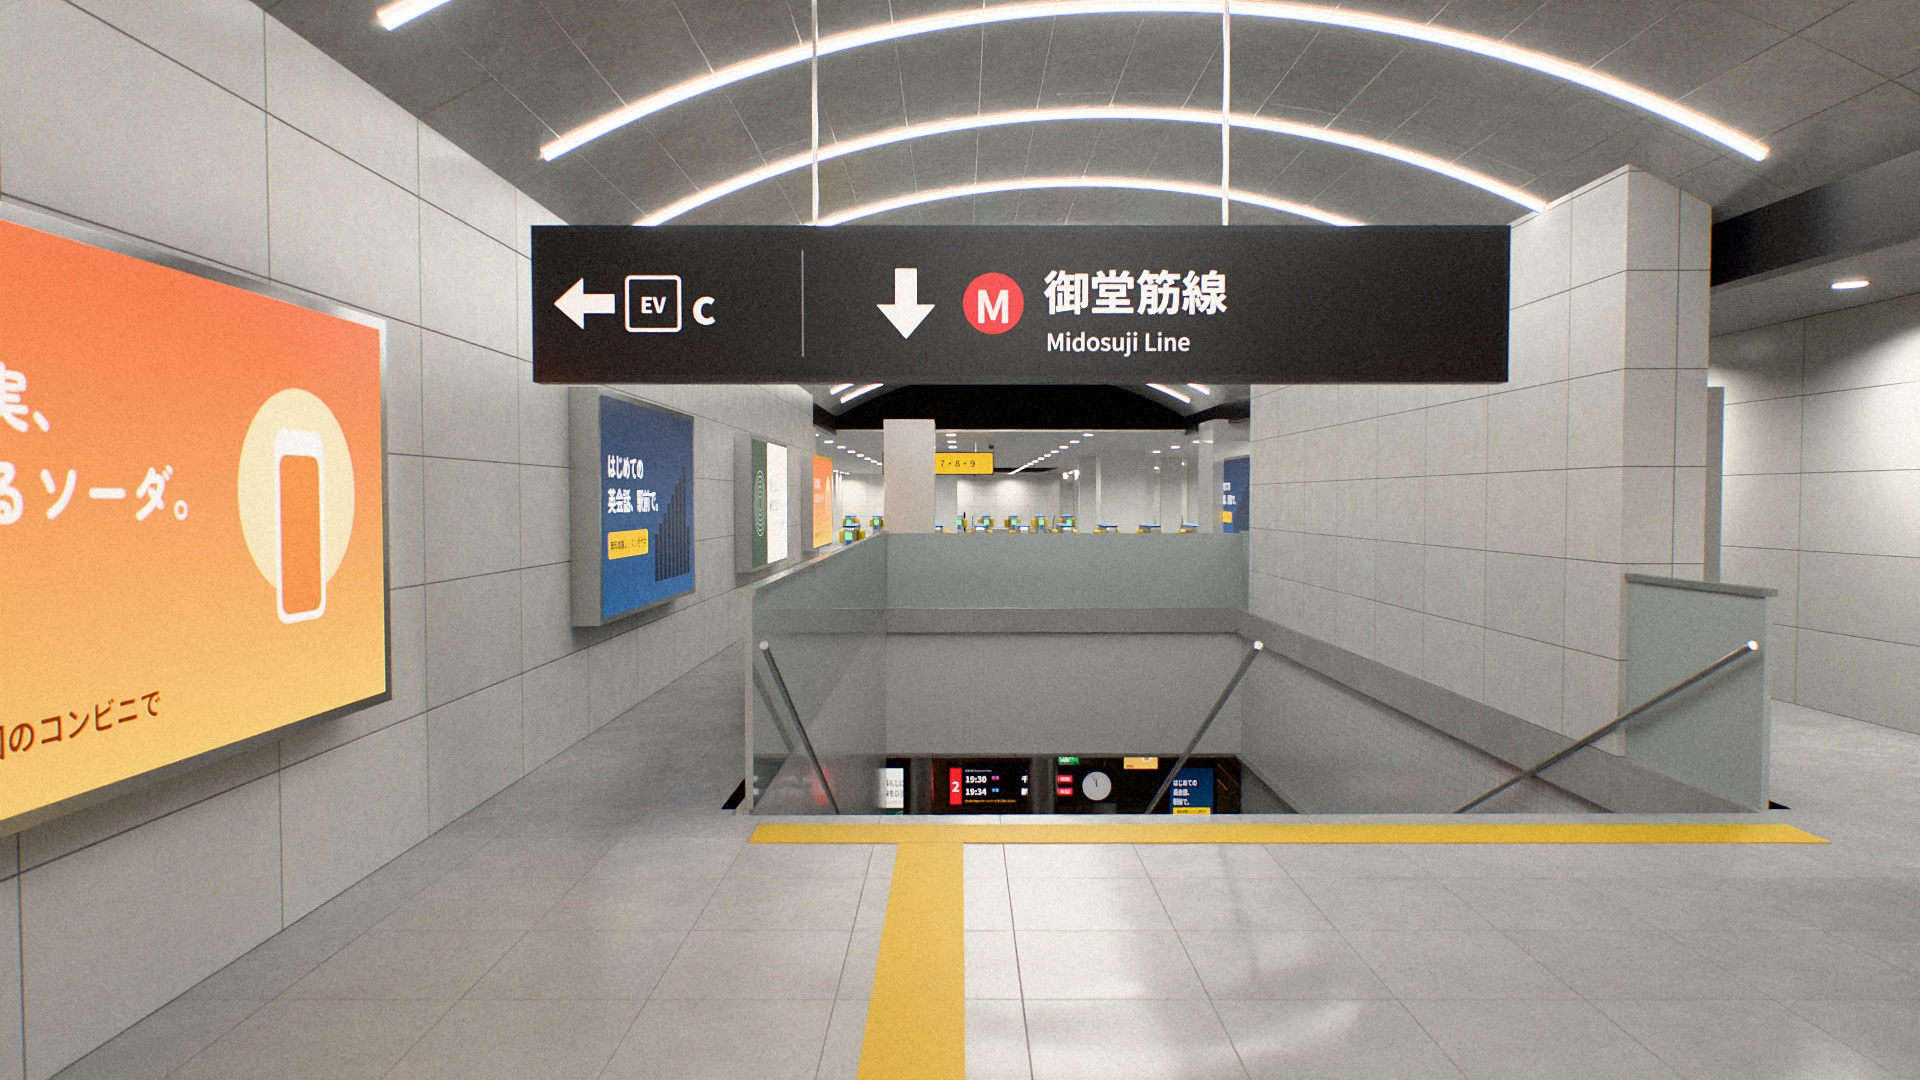
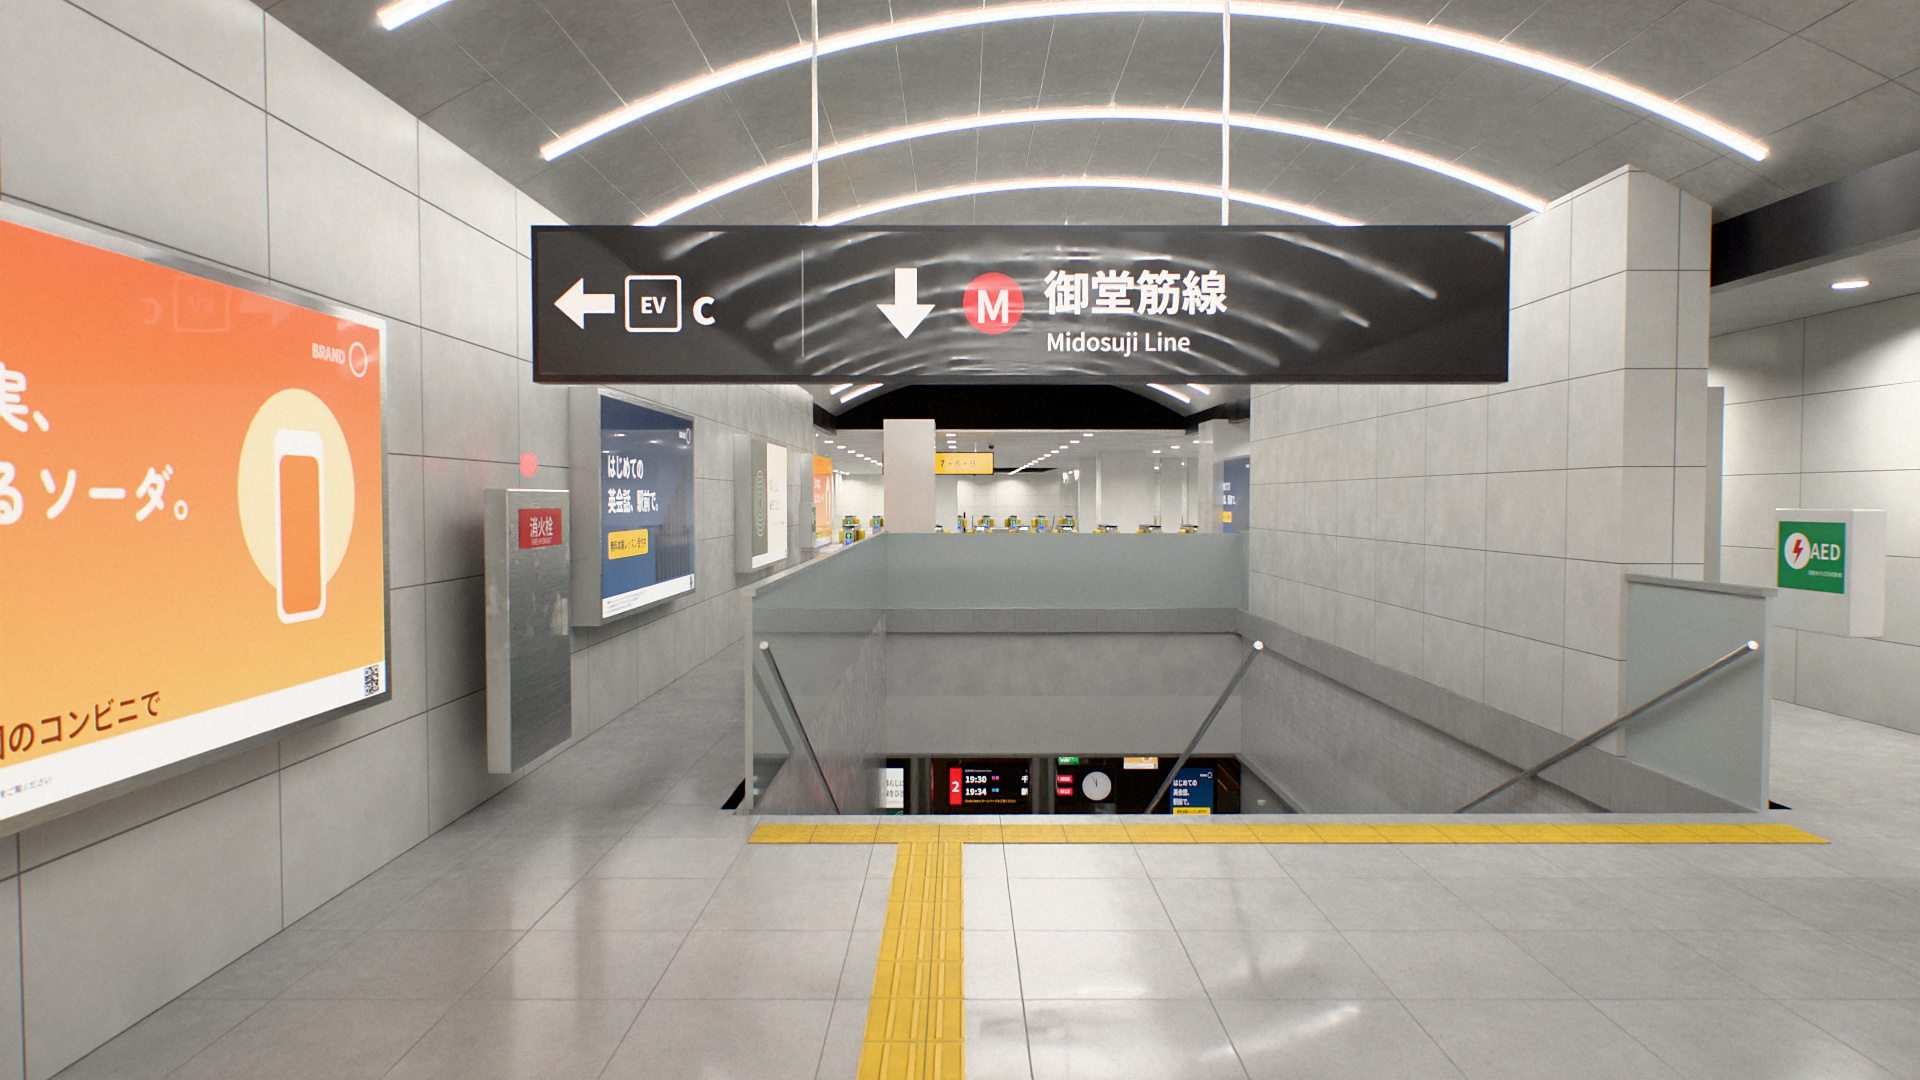
Umeda: satin finish on printed signs (mirror coat only on screens); concourse view re-rendered
Claude-Session: https://claude.ai/code/session_01Up345TfCpf9UXXDhGeCGkp

diff --git a/scripts/umeda/umeda_surface.py b/scripts/umeda/umeda_surface.py
@@ -215,6 +215,17 @@ def floor_decal(mat, seed=0.0):
     s.add_rough(s.ramp(wear, 0.3, 0.7, -0.1, 0.15))
 
 
+def sign_face(mat, seed=0.0):
+    """Printed / backlit sign panels: satin acrylic face, not a mirror."""
+    s = _NT(mat)
+    b = s.b
+    b.inputs["Coat Weight"].default_value = 0.6
+    b.inputs["Coat IOR"].default_value = 1.49
+    sm = s.noise(4.0, 4.0, 0.6, seed=seed)
+    s.l(s.ramp(sm, 0.3, 0.7, 0.22, 0.38), b.inputs["Coat Roughness"])
+    s.b.inputs["Roughness"].default_value = 0.5
+
+
 def ceiling(mat, seed=0.0):
     s = _NT(mat)
     s.blotches(1.2, 0.05, 0.05, seed)
@@ -227,9 +238,9 @@ def apply_all(M):
         tile: ["track_tile", "wall_white", "wall_tile", "b1_wall"],
         paint: ["kiosk_black", "kiosk_white", "navy", "clad_dark", "psd_panel", "panel_white",
                 "parapet", "esc_clad", "beige", "column", "portal", "panel_grey"],
-        glass_cover: ["ad0", "ad1", "ad2", "adp0", "adp1", "adp2", "band0", "band1", "band2",
-                      "name_board_w", "name_board_e", "dep1", "dep2", "clock", "portal_sign",
-                      "exit_sign", "exit_b1", "track1", "track2", "gate_fascia_n", "b1_sign_down"],
+        glass_cover: ["ad0", "ad1", "ad2", "adp0", "adp1", "adp2", "dep1", "dep2", "clock"],
+        sign_face: ["band0", "band1", "band2", "name_board_w", "name_board_e", "portal_sign",
+                    "exit_sign", "exit_b1", "track1", "track2", "gate_fascia_n", "b1_sign_down"],
         ceiling: ["ceil_b2", "ceil"],
         floor_decal: ["queue0", "queue1", "decal_up", "decal_down", "ic_only"],
     }
